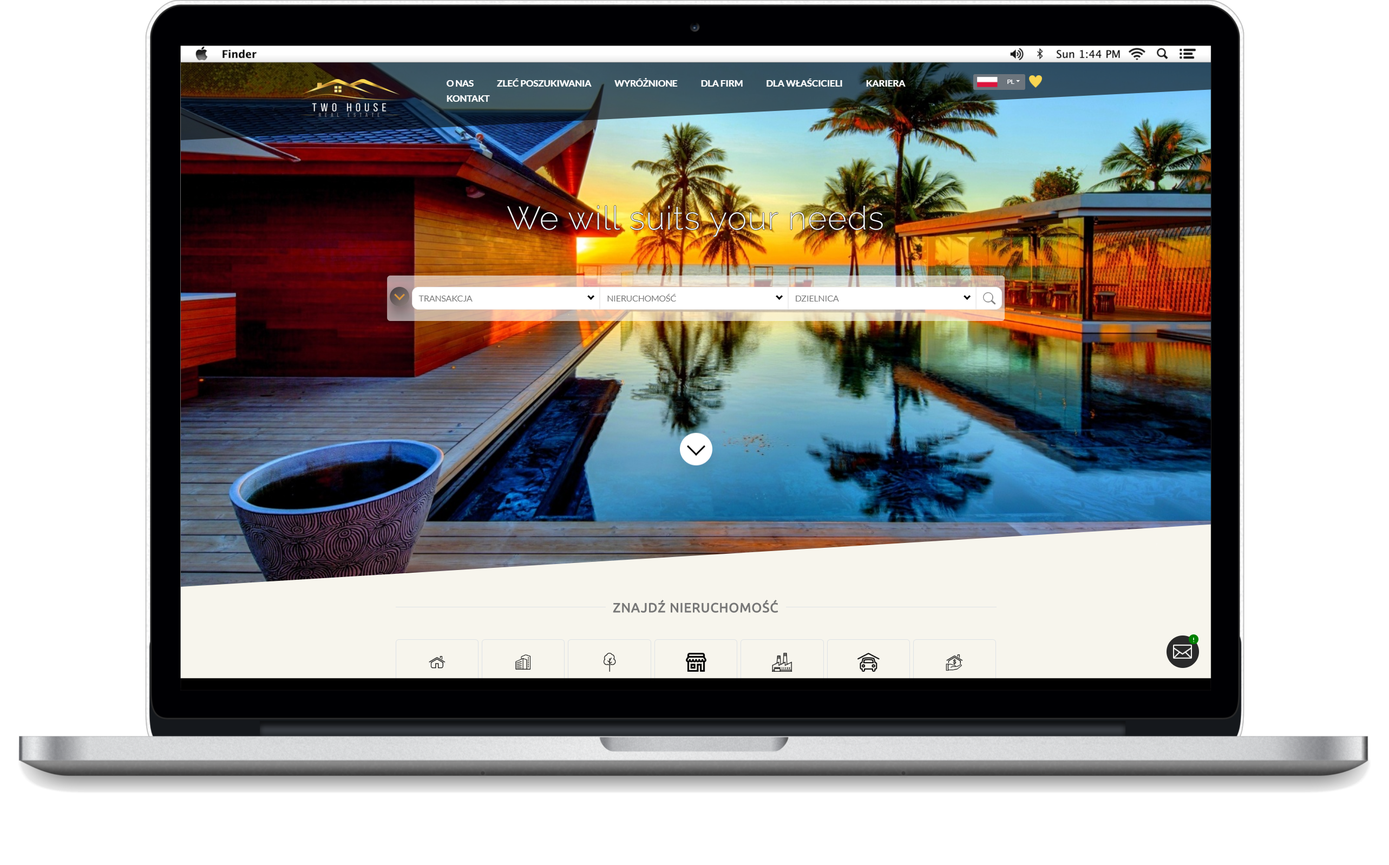
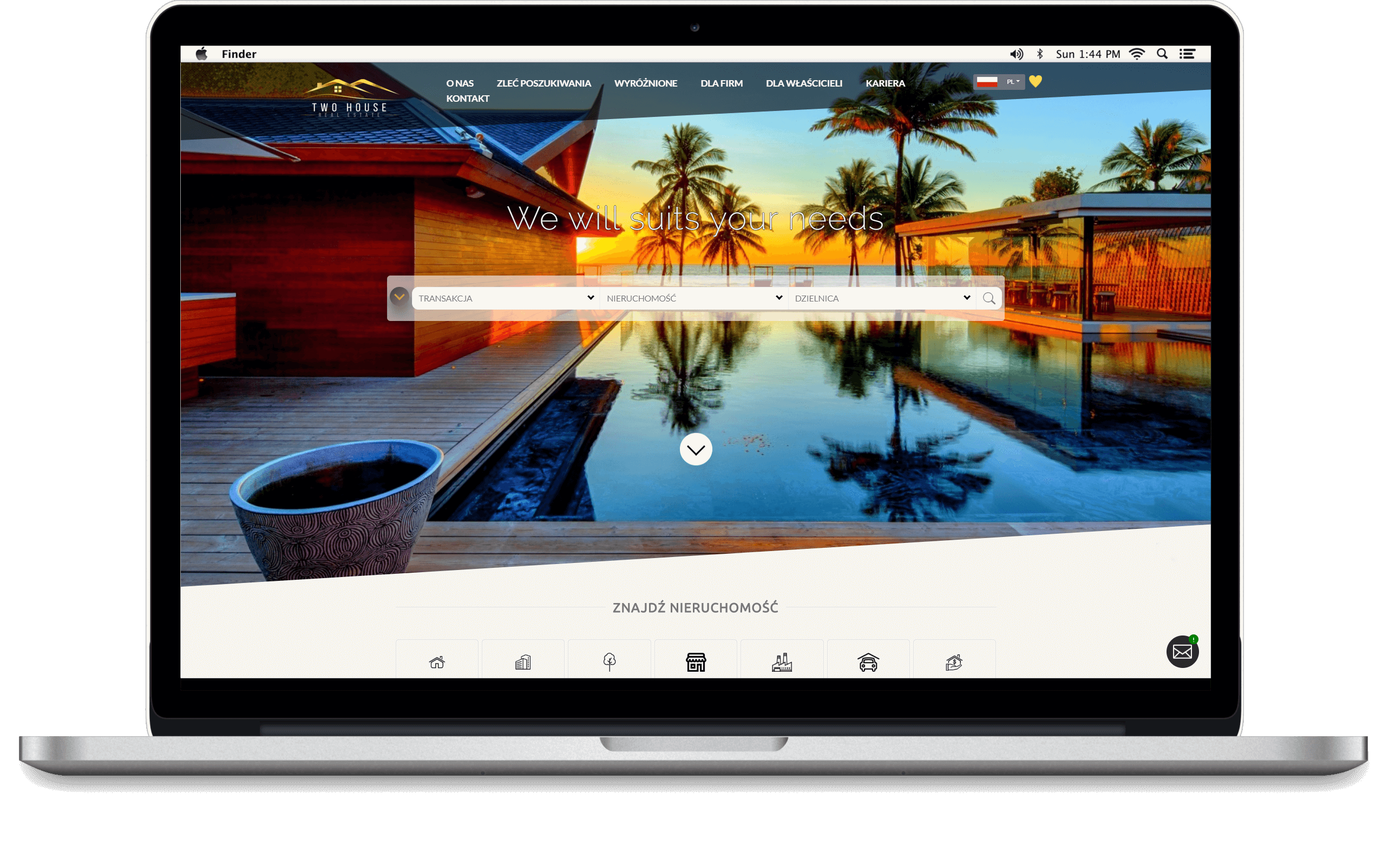
add media queries for very large screen

Changed region(s): [[0.0, 0.8892, 0.9977, 0.9199], [0.4365, 0.3066, 0.4677, 0.3373], [0.4053, 0.184, 0.4365, 0.2146]]

diff --git a/public/src/app/components/landing/contact/contact.component.html b/public/src/app/components/landing/contact/contact.component.html
@@ -11,19 +11,23 @@
         </header>
     </div>
     <div class="contact__col">
-        <form class="contact__form">
+        <form class="contact__form" (ngSubmit)="sendMessage()">
             <div class="contact__input-box">
                 <label for="email" class="contact__input-label">adres e-mail</label>
-                <input type="email" id="email" class="contact__input-input" placeholder="example@gmail.com">
+                <input type="email" id="email" class="contact__input-input" placeholder="przyklad@gmail.com" [(ngModel)]="email" name="email" required="">
             </div>
             <div class="contact__input-box">
                 <label for="phone" class="contact__input-label">numer telefonu (opcjonalne)</label>
-                <input type="tel" id="phone" class="contact__input-input" placeholder="+48 795 691 258">
+                <input type="tel" id="phone" class="contact__input-input" placeholder="+48 795 691 258" [(ngModel)]="phone" name="phone">
             </div>
             <div class="contact__input-box">
                 <label for="message" class="contact__input-label">wiadomość</label>
-                <textarea id="message" class="contact__input-textarea" placeholder="Your message..."></textarea>
+                <textarea id="message" class="contact__input-textarea" placeholder="Twoja wiadomość..." [(ngModel)]="message" name="message"></textarea>
             </div>
+            <button type="submit" class="button button--primary">
+                <span class="button-text">Wyślij</span>
+                <span class="button-icon button-icon--right">&#9660;</span>
+            </button>
         </form>
     </div>
 </section>

diff --git a/public/src/app/components/landing/portfolio/portfolio.component.ts b/public/src/app/components/landing/portfolio/portfolio.component.ts
@@ -39,7 +39,7 @@ export class PortfolioComponent implements OnInit {
             date: '01.09.2019',
             icons: ['https://res.cloudinary.com/drngyvbmc/image/upload/v1564679586/node.png', 'https://res.cloudinary.com/drngyvbmc/image/upload/v1564679586/express.png', 'https://res.cloudinary.com/drngyvbmc/image/upload/v1564679586/puppeteer.png', 'https://res.cloudinary.com/drngyvbmc/image/upload/v1565875158/socket.png', 'https://res.cloudinary.com/drngyvbmc/image/upload/v1564679586/vue.png', 'https://res.cloudinary.com/drngyvbmc/image/upload/v1565875158/atom.png', 'https://res.cloudinary.com/drngyvbmc/image/upload/v1564679586/ionic.jpg', 'https://res.cloudinary.com/drngyvbmc/image/upload/v1564679585/angular.png'],
             description: 'Mój najbardziej skomplikowany projekt. Jest to bot w pełni automatyzujący największą polską dynamiczną przeglądarkową grę RPG. Bot automatyzuje wszystkie obszary gry oraz pozwala się zarządzać z poziomu telefonu. Składa się z trzech aplikacji - mobilnej, desktopowej i webowej oraz backendu, który umożliwia współpracę między nimi. Do stworzenia projektu skorzystałem z takich technologii jak NodeJS, Express, MongoDB, Puppeteer, Socket.io, Vue2JS, Electron, Ionic, Angular.',
-            bg: '',
+            bg: '../../../../assets/projects/quickmargo2.png',
             live: true,
             git: false,
             link: {
@@ -65,7 +65,7 @@ export class PortfolioComponent implements OnInit {
         },
         {
             name: 'ColorReader',
-            image: ''
+            bg: '../../../../assets/projects/colorchanger.png',
         }
     ];
 

diff --git a/public/src/app/components/landing/skills/skills.component.scss b/public/src/app/components/landing/skills/skills.component.scss
@@ -23,6 +23,10 @@
     }
   }
 
+  @media only screen and (min-width: 1500px) {
+    height: 105vh;
+  }
+
   &__body {
     display: flex;
       margin: 0 auto 0 auto;
@@ -36,6 +40,11 @@
       background-color: rgba(135, 150, 255, .6);
       border-radius: 40px;
       position: relative;
+
+        @media only screen and (min-width: 1500px) {
+          width: 380px;
+          height: 380px;
+        }
 
         &--left {
             margin-top: 20vh;
@@ -64,11 +73,15 @@
       &-header {
         font-family: 'Oswald', sans-serif;
         color: #fed312;
-        font-size: 26px;
+        font-size: 24px;
         text-align: center;
         width: 100%;
         padding-top: 65px;
-          margin-top: 80px;
+        margin-top: 80px;
+
+        @media only screen and (min-width: 1500px) {
+          font-size: 36px;
+        }
       }
 
       &-text {
@@ -78,6 +91,10 @@
         font-size: 16px;
         color: white;
         text-align: center;
+
+          @media only screen and (min-width: 1500px) {
+            font-size: 20px;
+          }
       }
     }
   }

diff --git a/public/src/app/components/landing/contact/contact.component.ts b/public/src/app/components/landing/contact/contact.component.ts
@@ -1,4 +1,5 @@
 import { Component, OnInit } from '@angular/core';
+import { HttpClient, HttpHeaders } from '@angular/common/http';
 
 @Component({
   selector: 'app-contact',
@@ -6,10 +7,25 @@ import { Component, OnInit } from '@angular/core';
   styleUrls: ['./contact.component.scss']
 })
 export class ContactComponent implements OnInit {
+    private email: string;
+    private phone: string;
+    private message: string;
 
-  constructor() { }
+    constructor(private http: HttpClient) { }
 
-  ngOnInit() {
-  }
+    ngOnInit() {
+    }
 
+    async sendMessage() {
+        const params = {
+            email: this.email,
+            phone: this.phone,
+            message: this.message
+        };
+        const response = await this.http.post('http://localhost:3000/api/message/add', params, {
+            headers: new HttpHeaders({
+                'Content-Type':  'application/json'
+            })
+        });
+    }
 }

diff --git a/public/src/styles.scss b/public/src/styles.scss
@@ -2,6 +2,10 @@
 body {
   margin: 0;
   min-height: 2000px;
+
+  @media only screen and (min-width: 1500px) {
+      border-left: 100px solid #3a55e9;
+  }
 }
 
 * {
@@ -15,16 +19,17 @@ body {
   filter: drop-shadow(1px 4px 3px rgba(0,0,0,.2));
   transition: .5s filter, .2s transform;
   backface-visibility: hidden;
+  border: 0;
 
   &:hover {
     filter: drop-shadow(1px 4px 3px rgba(0,0,0, .5));
-    transform: scale(1.05);
+    transform: scale(1.02);
+    cursor: pointer;
   }
 
   &--primary {
     padding: 0 15px;
-    min-width: 80px;
-    max-width: 150px;
+    width: 150px;
     height: 41px;
     border-radius: 4px;
     background-color: #3a55e9;

diff --git a/public/src/index.html b/public/src/index.html
@@ -10,7 +10,7 @@
   <meta name="viewport" content="width=device-width, initial-scale=1">
   <link rel="icon" type="image/x-icon" href="favicon.ico">
 </head>
-<body>
+<body class="body">
   <app-root></app-root>
   <script type="text/javascript">
       var Tawk_API=Tawk_API||{}, Tawk_LoadStart=new Date();

diff --git a/public/src/app/components/landing/contact/contact.component.scss b/public/src/app/components/landing/contact/contact.component.scss
@@ -67,7 +67,7 @@
       border: 1px solid #e9e9e9;
       border-radius: 10px;
       background-color: #f5f5f5;
-      height: 180px;
+      height: 120px;
       padding: 10px;
     }
 

diff --git a/public/src/app/components/landing/top/bg-top/bg-top.component.scss b/public/src/app/components/landing/top/bg-top/bg-top.component.scss
@@ -6,4 +6,8 @@
     position: absolute;
     top: 0;
     right: 0;
+
+    @media only screen and (min-width: 1500px) {
+        height: 130vh;
+    }
 }
